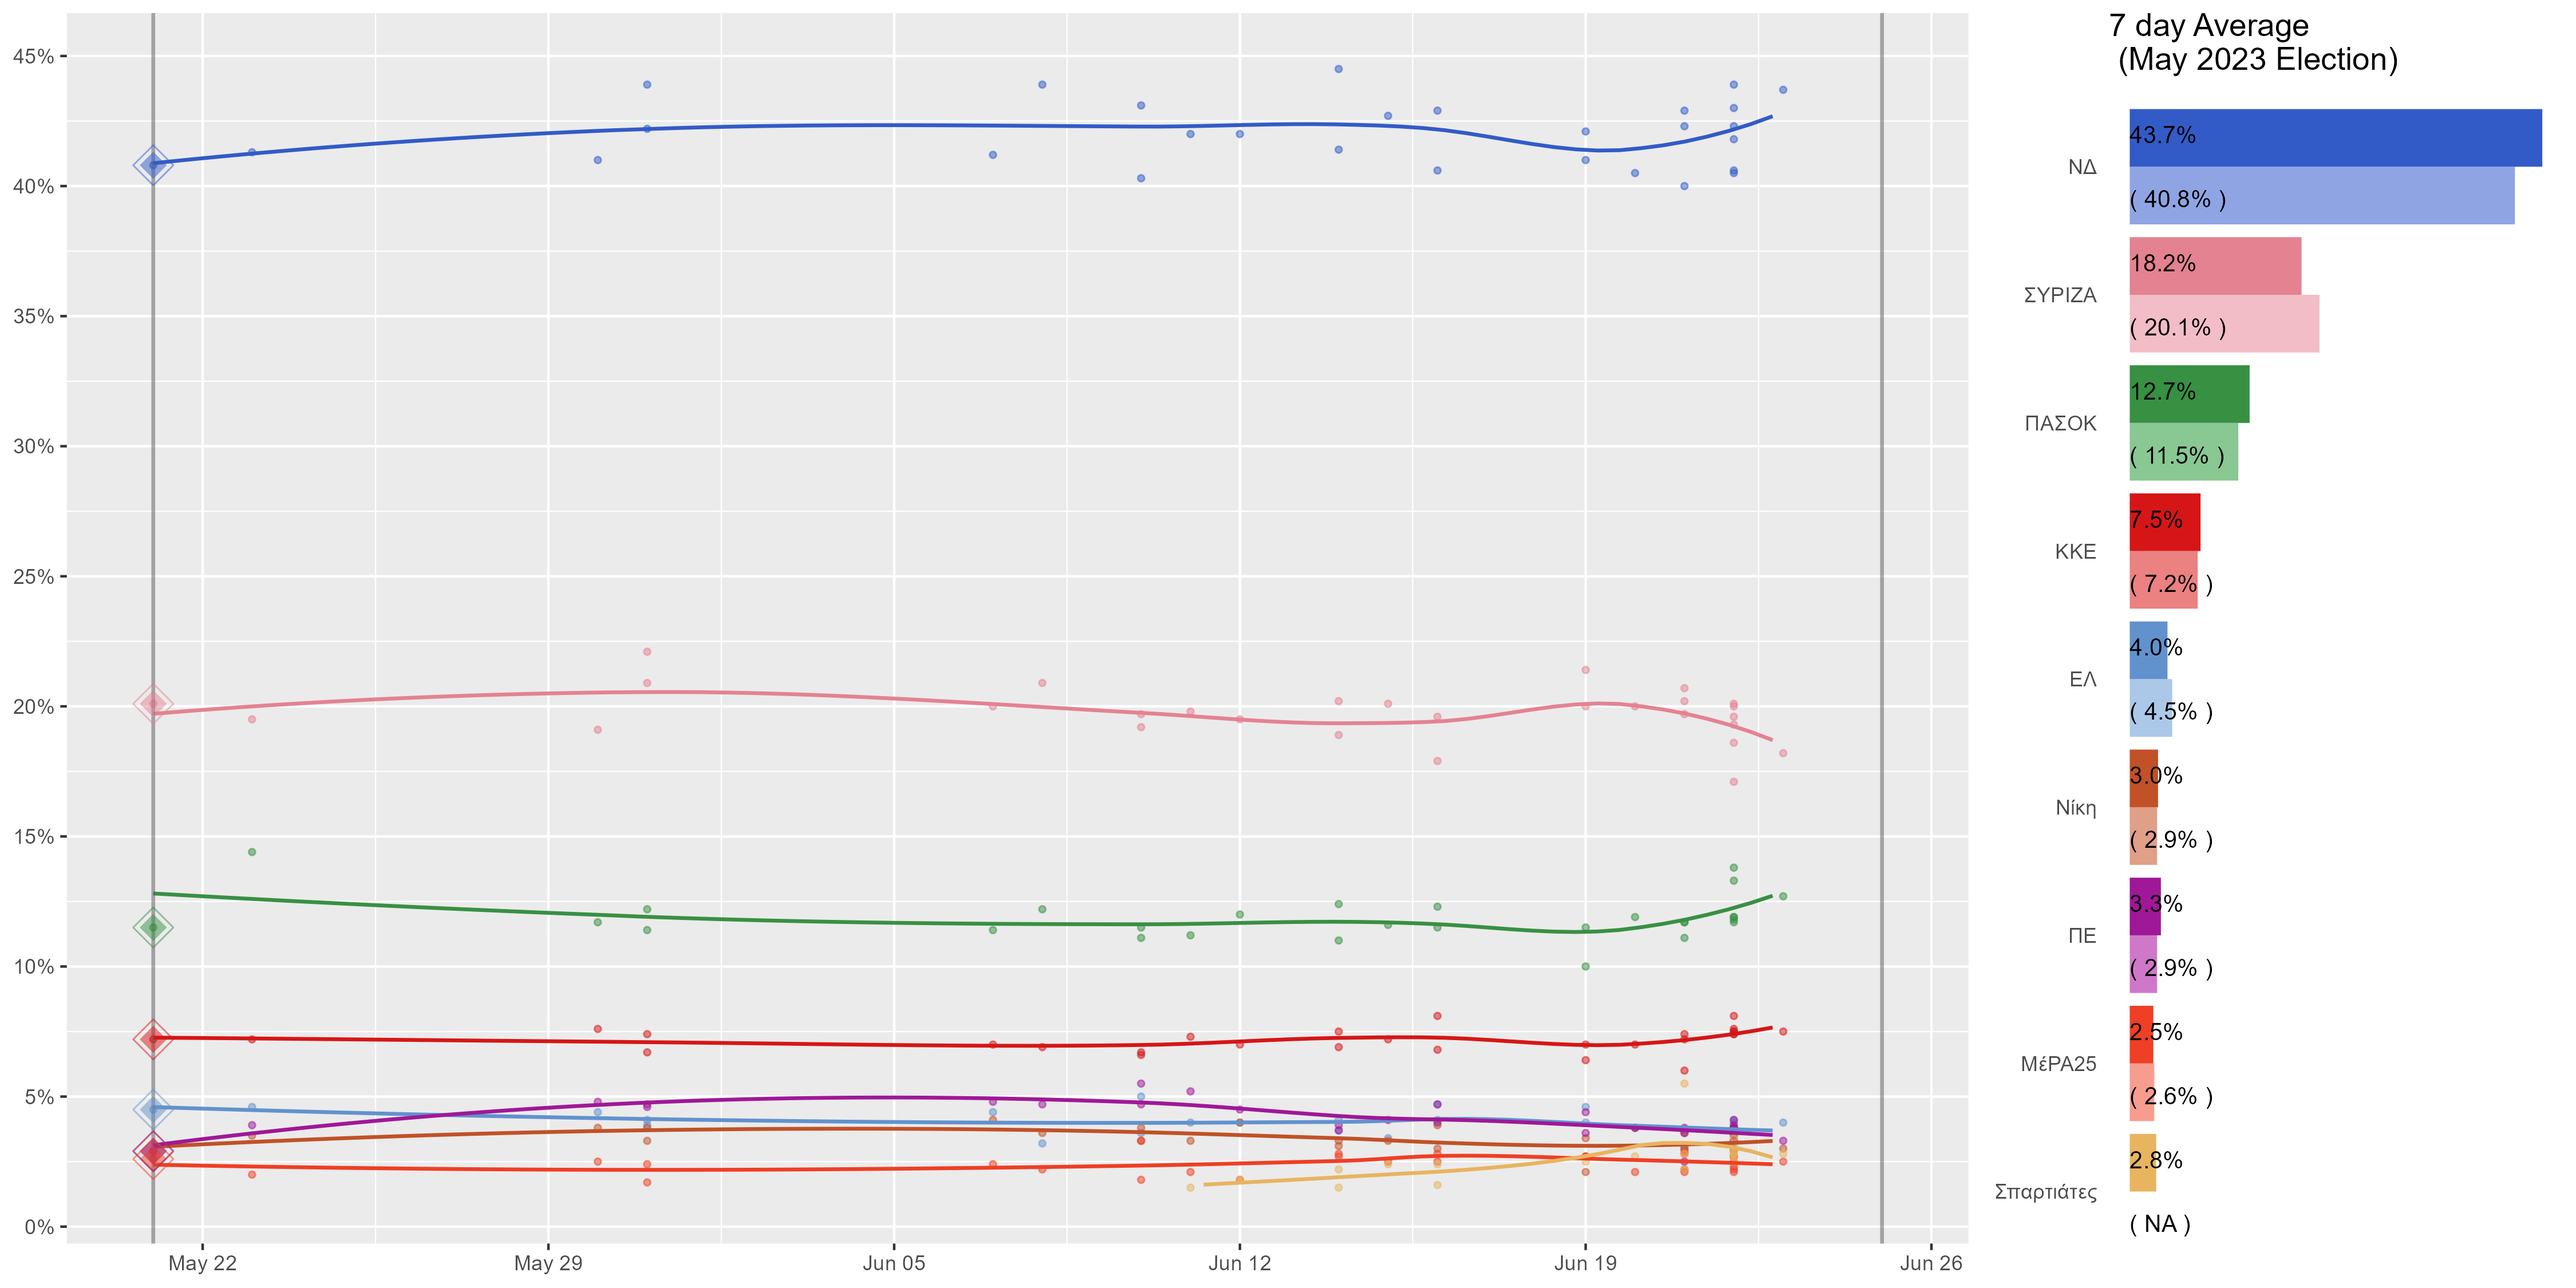
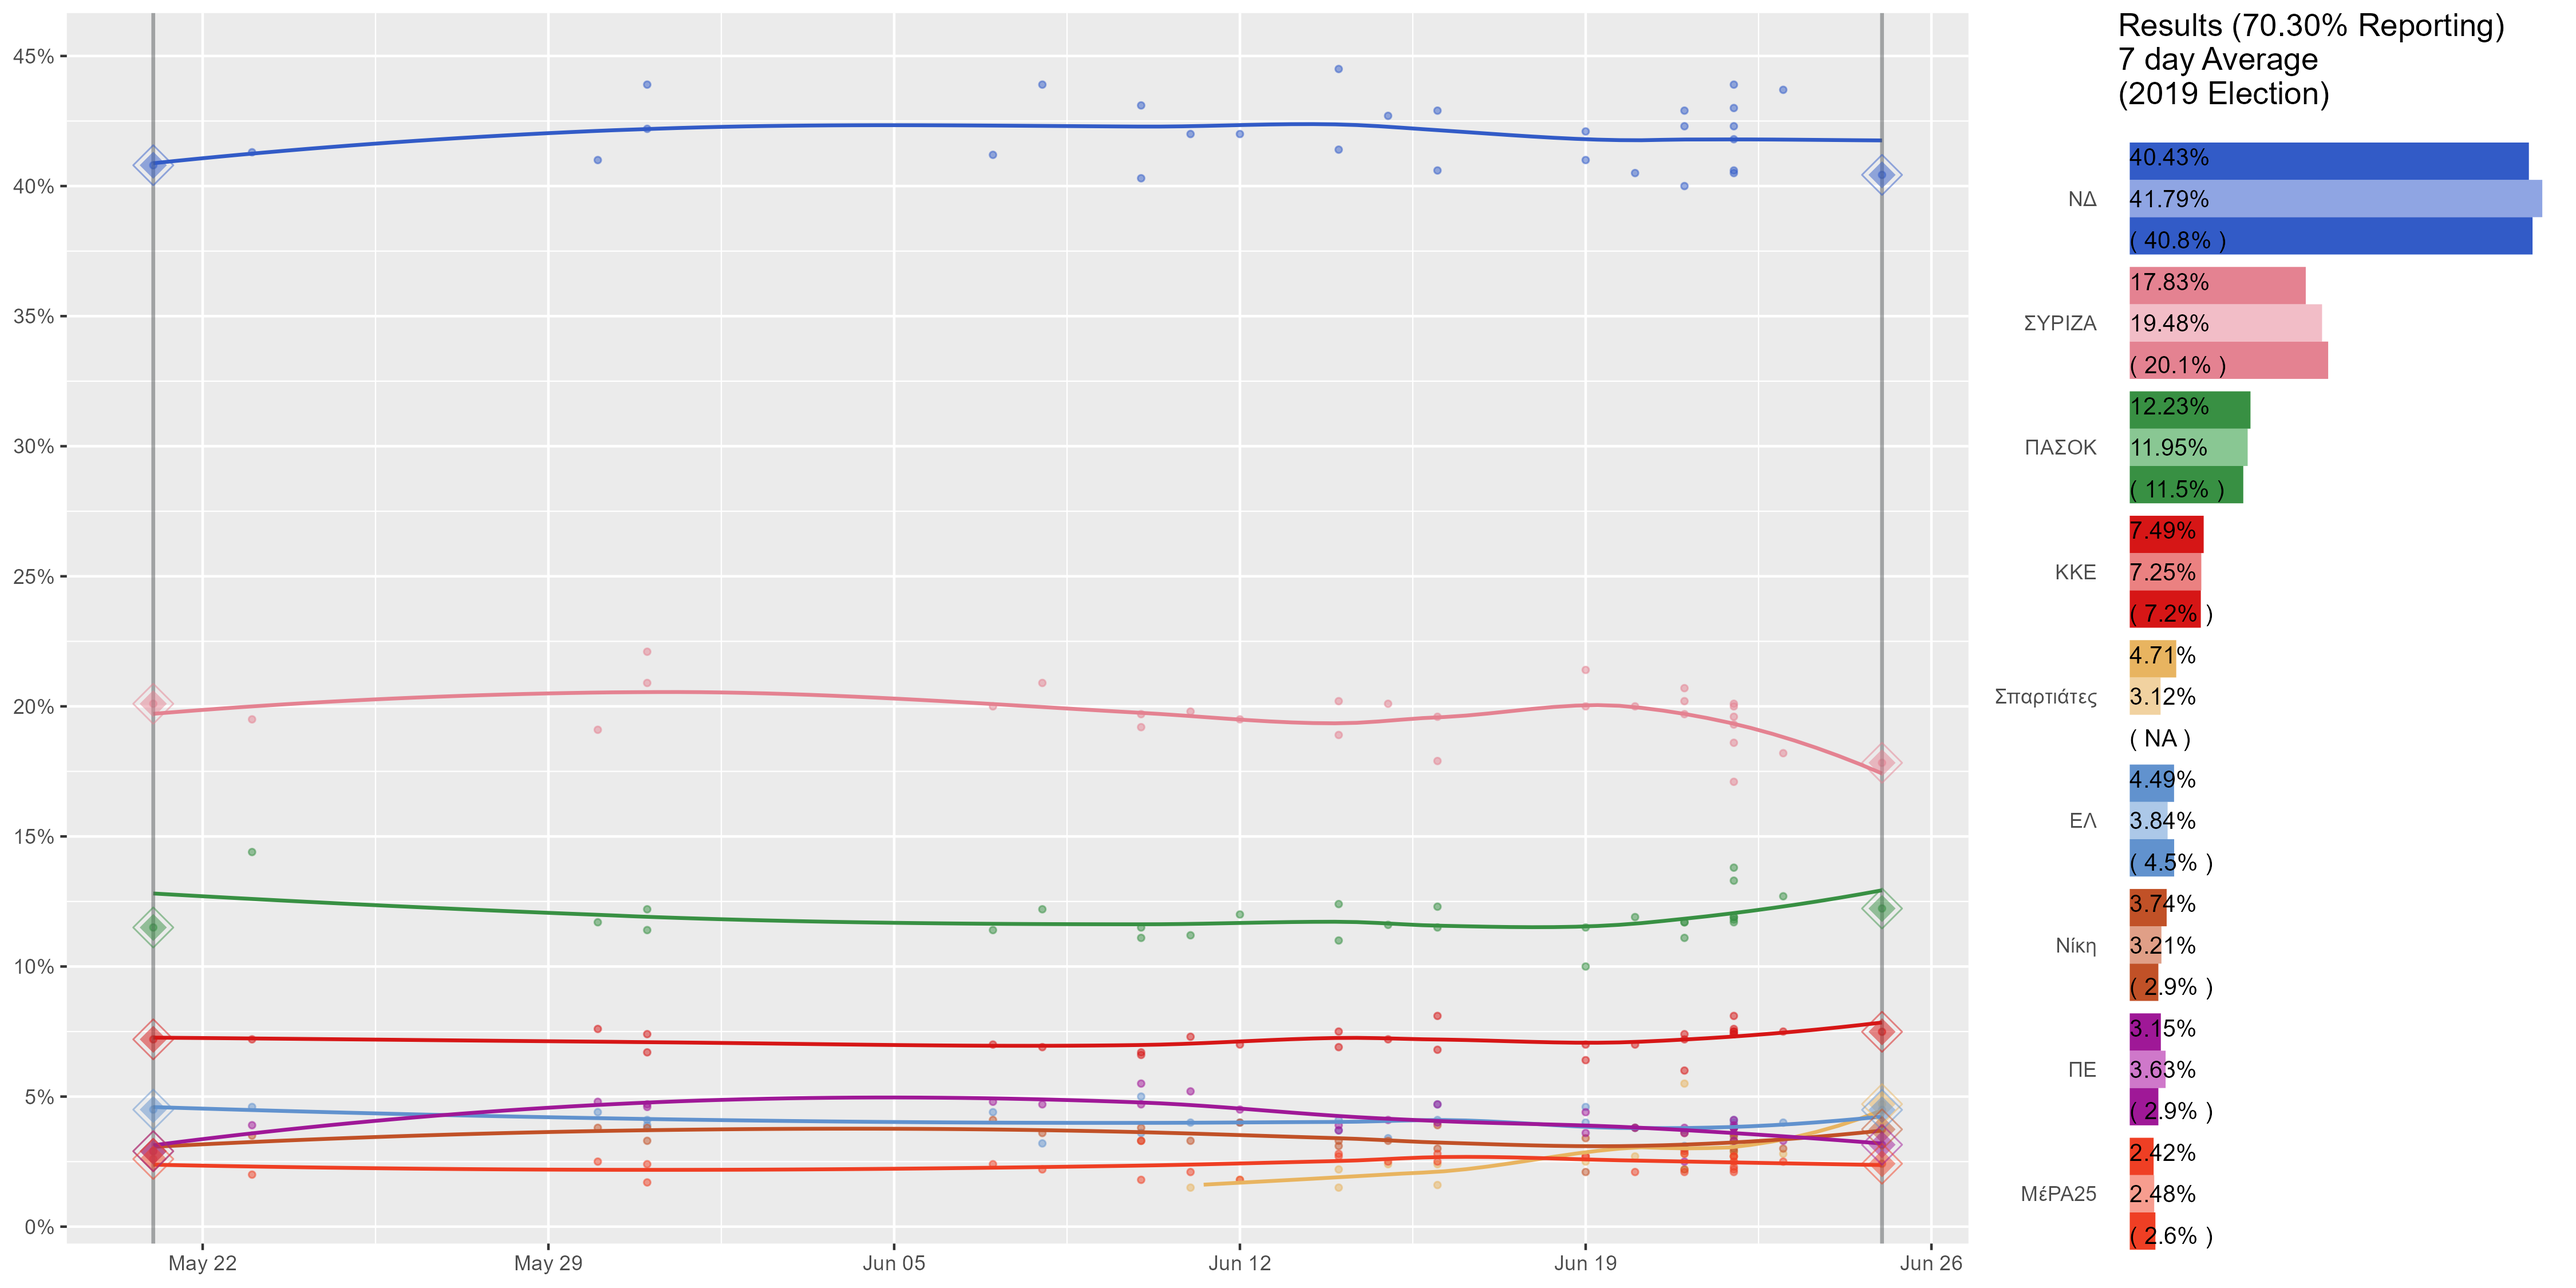
New Polls 25-VI-2023

diff --git a/Greece/data2.py b/Greece/data2.py
@@ -29,11 +29,11 @@ for i in range(1):
     d[i][z] = d[i][z].str.split(' ').str[0]
     d[i][z] = [x.replace('–','') for x in d[i][z].astype(str)]
     
-d[0].drop(d[0].index[[-1,-3]],inplace=True)
+d[0].drop(d[0].index[[-1,-3,0,1,2,3]],inplace=True)
 
 D = pd.concat(d.values(), ignore_index=True)
-# new_row = pd.DataFrame({'Date': '21 May 2023', 'ΝΔ':40.81 , 'ΣΥΡΙΖΑ':20.06 , 'ΠΑΣΟΚ - ΚΙΝΑΛ':11.58 , 'KKE':7.18, 'ΕΛ':4.47, 'ΜέΡΑ25':2.58}, index=[0])
-# D = pd.concat([new_row,D]).reset_index(drop=True)
-# D.Date=D.Date.astype(str).apply(lambda x: dateparser.parse(x, settings={'PREFER_DAY_OF_MONTH': 'first'}))
+new_row = pd.DataFrame({'Date': '25 June 2023', 'ΝΔ':40.43 , 'ΣΥΡΙΖΑ':17.83 , 'ΠΑΣΟΚ':12.23 , 'KKE':7.49,'Σπαρτιάτες':4.71,'ΕΛ':4.49,'Νίκη':3.74,'ΠΕ':3.15,'ΜέΡΑ25':2.42}, index=[0])
+D = pd.concat([new_row,D]).reset_index(drop=True)
+D.Date=D.Date.astype(str).apply(lambda x: dateparser.parse(x, settings={'PREFER_DAY_OF_MONTH': 'first'}))
 
 D.to_csv('Greece/poll2.csv', index=False)
